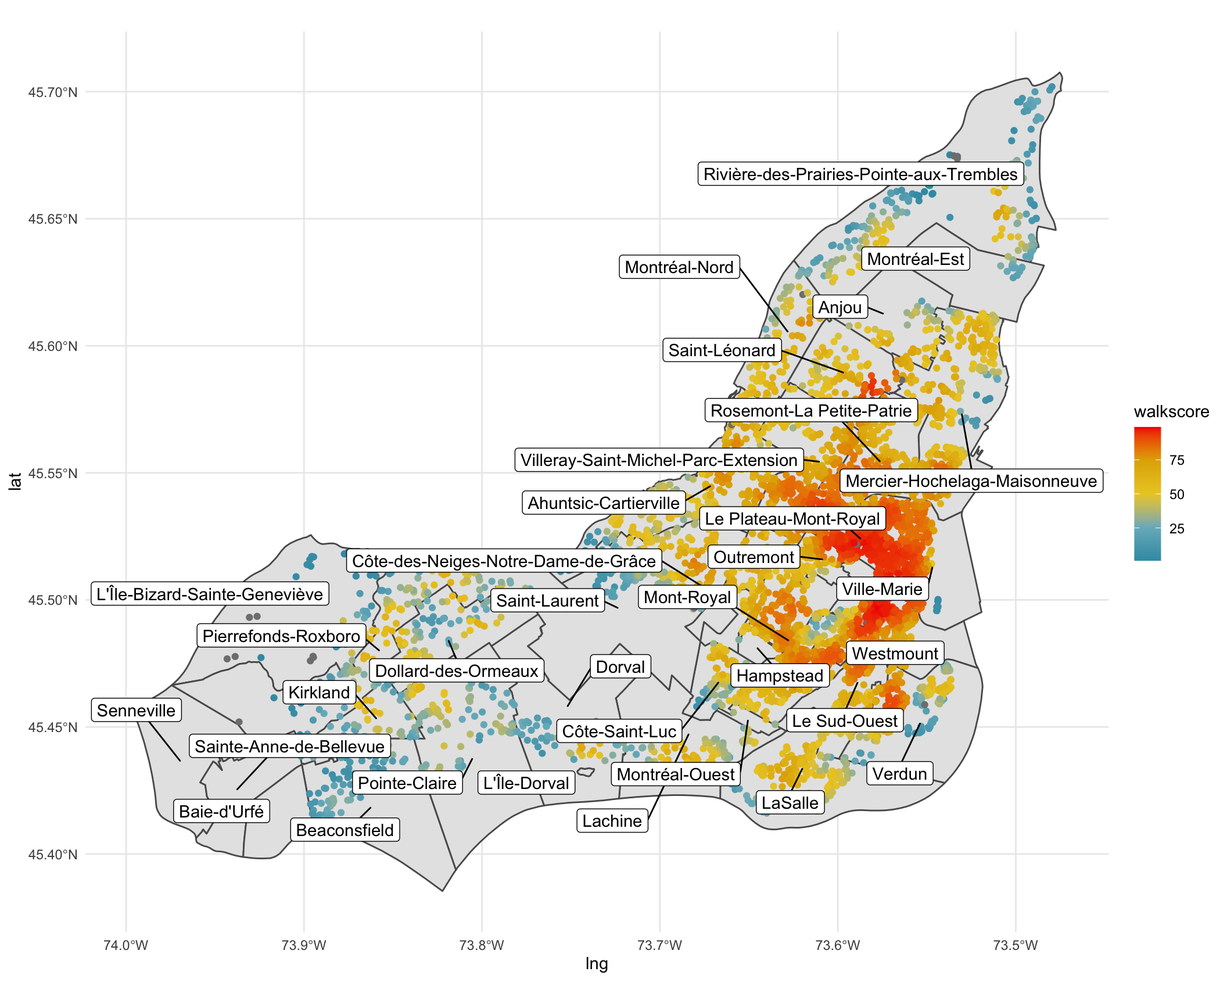
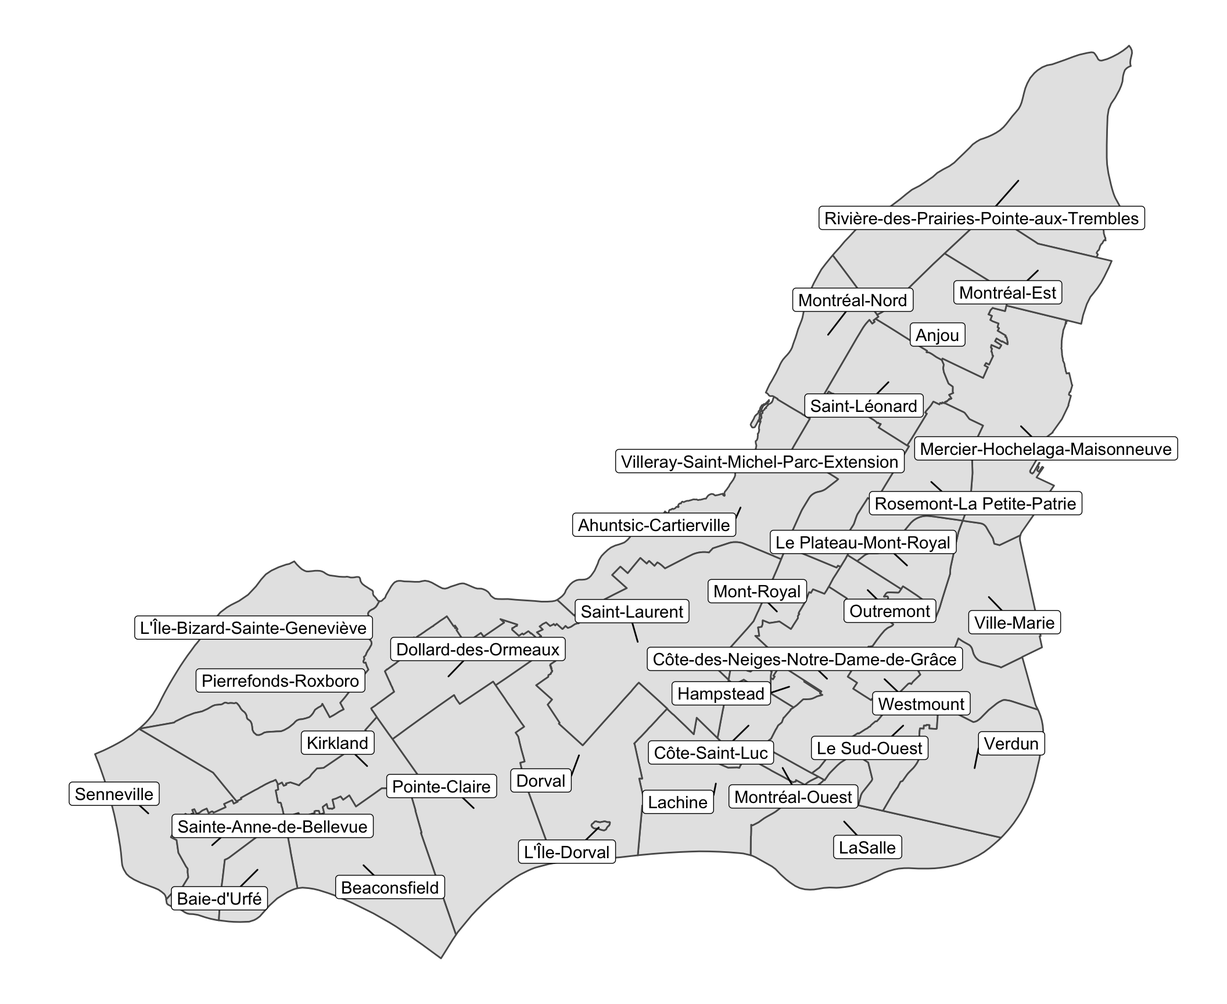
improve walkscore post

diff --git a/post/montreal-real-estate/real-estates-montreal-walkscore/index.html b/post/montreal-real-estate/real-estates-montreal-walkscore/index.html
@@ -16,7 +16,7 @@
     
   },
   "name":"Wavrzenczak",
-  "description":"A short description of the best places to walk in Montreal according to the walkscore.com. We find 11 neighbours with an average greater than 60, which means good places for those looking for mobility.",
+  "description":"An exploration of the best places to walk in Montreal according to the walkscore.com. We find 11 neighbourhoods with a walkscore average greater than 60, which means good places for those looking for mobility.",
   "url":"https:\/\/varvenza.com\/post\/montreal-real-estate\/real-estates-montreal-walkscore\/",
   "keywords":"[]"
 }
@@ -28,18 +28,18 @@
 <meta name="generator" content="Hugo 0.93.2 with theme Tranquilpeak 0.5.3-BETA">
 <meta name="author" content="Andryas Wavrzenczak">
 <meta name="keywords" content="">
-<meta name="description" content="A short description of the best places to walk in Montreal according to the walkscore.com. We find 11 neighbours with an average greater than 60, which means good places for those looking for mobility.">
+<meta name="description" content="An exploration of the best places to walk in Montreal according to the walkscore.com. We find 11 neighbourhoods with a walkscore average greater than 60, which means good places for those looking for mobility.">
 
 
-<meta property="og:description" content="A short description of the best places to walk in Montreal according to the walkscore.com. We find 11 neighbours with an average greater than 60, which means good places for those looking for mobility.">
+<meta property="og:description" content="An exploration of the best places to walk in Montreal according to the walkscore.com. We find 11 neighbourhoods with a walkscore average greater than 60, which means good places for those looking for mobility.">
 <meta property="og:type" content="article">
-<meta property="og:title" content="Walkscore in Montreal">
-<meta name="twitter:title" content="Walkscore in Montreal">
+<meta property="og:title" content="Let&#39;s take a walk in Montreal">
+<meta name="twitter:title" content="Let&#39;s take a walk in Montreal">
 <meta property="og:url" content="https://varvenza.com/post/montreal-real-estate/real-estates-montreal-walkscore/">
 <meta property="twitter:url" content="https://varvenza.com/post/montreal-real-estate/real-estates-montreal-walkscore/">
 <meta property="og:site_name" content="Wavrzenczak">
-<meta property="og:description" content="A short description of the best places to walk in Montreal according to the walkscore.com. We find 11 neighbours with an average greater than 60, which means good places for those looking for mobility.">
-<meta name="twitter:description" content="A short description of the best places to walk in Montreal according to the walkscore.com. We find 11 neighbours with an average greater than 60, which means good places for those looking for mobility.">
+<meta property="og:description" content="An exploration of the best places to walk in Montreal according to the walkscore.com. We find 11 neighbourhoods with a walkscore average greater than 60, which means good places for those looking for mobility.">
+<meta name="twitter:description" content="An exploration of the best places to walk in Montreal according to the walkscore.com. We find 11 neighbourhoods with a walkscore average greater than 60, which means good places for those looking for mobility.">
 <meta property="og:locale" content="en-us">
 
   
@@ -84,7 +84,7 @@
   <meta property="twitter:image" content="https://varvenza.com/post/montreal-real-estate/data/thumbnail.jpg">
 
 
-    <title>Walkscore in Montreal</title>
+    <title>Let&#39;s take a walk in Montreal</title>
 
     <link rel="icon" href="https://varvenza.com/favicon.png">
     
@@ -250,7 +250,7 @@ if (!doNotTrack) {
             <div class="post-header main-content-wrap text-left">
   
     <h1 class="post-title">
-      Walkscore in Montreal
+      Let&#39;s take a walk in Montreal
     </h1>
   
   
@@ -291,9 +291,9 @@ if (!doNotTrack) {
 <p>Greetings earthlings!</p>
 <p>Today I want to explore with you the best places to walk in Montreal (Island) according to
 <a href="https://www.walkscore.com/about.shtml">walkscore.com</a>. How are we going to do that? Through
-crawled data, approximately 10k properties from the <a href="https://centris.ca/en">centris.ca</a>,
+data from <a href="https://centris.ca/en">centris.ca</a>, I crawled approximately 10k properties,
 where we got the <code>walkscore</code> and some other information for future analysis.</p>
-<p>To start, let’s see what the walkscore.com says about its mission:</p>
+<p>To start, let’s see what the walkscore.com says about their mission:</p>
 <blockquote>
 <p>Our Mission
 Walk Score’s mission is to promote walkable neighbourhoods. Walkable
@@ -307,18 +307,24 @@ Our vision is for every property listing to read: Beds: 3 Baths: 2 Walk Score: 8
 We want to make it easy for people to evaluate walkability and transportation when choosing where to live.</p>
 </blockquote>
 <p>Basically, they try to provide a score that summarizes the accessibility of a place; with that in mind,
-areas, where we have bus stops, metros, taxis and space for movement will have the best scores. And places
-with few of those things will have a low score.</p>
+areas, where we have bus stops, metros and taxis stops will have the best scores. And places with few of
+those things will have a low score.</p>
 <div class="figure"><span style="display:block;" id="fig:unnamed-chunk-1"></span>
-<img src="https://varvenza.com/post/montreal-real-estate/walkscore_files/figure-html/unnamed-chunk-1-1.png" alt="All walkscore properties collected from centris" width="1056" />
+<img src="https://varvenza.com/post/montreal-real-estate/walkscore_files/figure-html/unnamed-chunk-1-1.png" alt="Montreal neighbourhood" width="1056" />
 <p class="caption">
-Figure 1: All walkscore properties collected from centris
+Figure 1: Montreal neighbourhood
+</p>
+</div>
+<div class="figure"><span style="display:block;" id="fig:unnamed-chunk-2"></span>
+<img src="https://varvenza.com/post/montreal-real-estate/walkscore_files/figure-html/unnamed-chunk-2-1.png" alt="All walkscore properties collected from centris" width="1056" />
+<p class="caption">
+Figure 2: All walkscore properties collected from centris
 </p>
 </div>
 <p>As we can see in the plot above, places where we have a colour tending to red will have a high score, and areas with
 the colour tending to blue will have a low score. We notice that South-West of Montreal has lower scores; I don’t know
-exactly why, but probably because there are many houses there, so it sounds more like a “family place,” where are less
-population density.</p>
+exactly why, but probably because there are many houses there, so it sounds more like a “family place,” where it has a
+lower population density.</p>
 <p>Now, imagine that you are new in the city and you don’t know anything and want to rent a condo here. You probably will
 try to find something downtown; it is where everything happens, right? But, downtown, in general, is more expensive than
 some furthest places, for that let’s try to find the best neighbourhoods according to the walkscore and find the cheapest
@@ -328,7 +334,7 @@ places to rent.</p>
 <p>Above we have a plot that we can interact with to see the average walkscore by neighbourhood, and
 below we have the boxplot of which neighbourhood to have an idea of how the walkscore is distributed
 by neighbourhood.</p>
-<p><img src="https://varvenza.com/post/montreal-real-estate/walkscore_files/figure-html/unnamed-chunk-3-1.png" width="1056" /></p>
+<p><img src="https://varvenza.com/post/montreal-real-estate/walkscore_files/figure-html/unnamed-chunk-4-1.png" width="1056" /></p>
 <p>The top neighbourdhoods are:</p>
 <ul>
 <li>Le Plateau-Mont-Royal</li>
@@ -348,6 +354,9 @@ and getting the top 10 cheapest places to rent for each of these neighbourhoods,
 that you can check.</p>
 <div style="border: 1px solid #ddd; padding: 0px; overflow-y: scroll; height:500px; overflow-x: scroll; width:100%; ">
 <table class="table table-striped table-hover" style="margin-left: auto; margin-right: auto;">
+<caption>
+<span id="tab:unnamed-chunk-6">Table 1: </span>Cheapest condo in the best walkscore neighbourhoods
+</caption>
 <thead>
 <tr>
 <th style="text-align:left;position: sticky; top:0; background-color: #FFFFFF;">
@@ -1578,6 +1587,9 @@ Westmount
 <p>And to end this short post about the walkscore a summarize by neighbourdhood.</p>
 <div style="border: 1px solid #ddd; padding: 0px; overflow-y: scroll; height:500px; overflow-x: scroll; width:100%; ">
 <table class="table table-striped table-hover" style="margin-left: auto; margin-right: auto;border-bottom: 0;">
+<caption>
+<span id="tab:unnamed-chunk-7">Table 2: </span>Walkscore summary
+</caption>
 <thead>
 <tr>
 <th style="text-align:left;position: sticky; top:0; background-color: #FFFFFF;">

diff --git a/categories/real-estates/index.html b/categories/real-estates/index.html
@@ -241,9 +241,9 @@ if (!doNotTrack) {
     <div class="postShorten-header">
       <h1 class="postShorten-title">
       
-        <a class="link-unstyled" href="https://varvenza.com/post/montreal-real-estate/real-estates-montreal-walkscore/" aria-label="Open the post: Walkscore in Montreal">
+        <a class="link-unstyled" href="https://varvenza.com/post/montreal-real-estate/real-estates-montreal-walkscore/" aria-label="Open the post: Let&#39;s take a walk in Montreal">
       
-          Walkscore in Montreal
+          Let&#39;s take a walk in Montreal
         </a>
       </h1>
       
@@ -269,18 +269,18 @@ if (!doNotTrack) {
     </div>
     <div class="postShorten-excerpt">
       
-        A short description of the best places to walk in Montreal according to the walkscore.com. We find 11 neighbours with an average greater than 60, which means good places for those looking for mobility.
+        An exploration of the best places to walk in Montreal according to the walkscore.com. We find 11 neighbourhoods with a walkscore average greater than 60, which means good places for those looking for mobility.
       
       <p>
         
-          <a href="https://varvenza.com/post/montreal-real-estate/real-estates-montreal-walkscore/" class="postShorten-excerpt_link link" aria-label="Open the post: Walkscore in Montreal">Continue reading</a>
+          <a href="https://varvenza.com/post/montreal-real-estate/real-estates-montreal-walkscore/" class="postShorten-excerpt_link link" aria-label="Open the post: Let&#39;s take a walk in Montreal">Continue reading</a>
         
         
       </p>
     </div>
   </div>
   
-    <a href="https://varvenza.com/post/montreal-real-estate/real-estates-montreal-walkscore/" aria-label="Open the post: Walkscore in Montreal">
+    <a href="https://varvenza.com/post/montreal-real-estate/real-estates-montreal-walkscore/" aria-label="Open the post: Let&#39;s take a walk in Montreal">
       <div class="postShorten-thumbnailimg">
         <img alt="" src="https://varvenza.com/post/montreal-real-estate/data/thumbnail.jpg"/>
       </div>

diff --git a/index.html b/index.html
@@ -238,9 +238,9 @@ if (!doNotTrack) {
     <div class="postShorten-header">
       <h1 class="postShorten-title">
       
-        <a class="link-unstyled" href="https://varvenza.com/post/montreal-real-estate/real-estates-montreal-walkscore/" aria-label="Open the post: Walkscore in Montreal">
+        <a class="link-unstyled" href="https://varvenza.com/post/montreal-real-estate/real-estates-montreal-walkscore/" aria-label="Open the post: Let&#39;s take a walk in Montreal">
       
-          Walkscore in Montreal
+          Let&#39;s take a walk in Montreal
         </a>
       </h1>
       
@@ -266,18 +266,18 @@ if (!doNotTrack) {
     </div>
     <div class="postShorten-excerpt">
       
-        A short description of the best places to walk in Montreal according to the walkscore.com. We find 11 neighbours with an average greater than 60, which means good places for those looking for mobility.
+        An exploration of the best places to walk in Montreal according to the walkscore.com. We find 11 neighbourhoods with a walkscore average greater than 60, which means good places for those looking for mobility.
       
       <p>
         
-          <a href="https://varvenza.com/post/montreal-real-estate/real-estates-montreal-walkscore/" class="postShorten-excerpt_link link" aria-label="Open the post: Walkscore in Montreal">Continue reading</a>
+          <a href="https://varvenza.com/post/montreal-real-estate/real-estates-montreal-walkscore/" class="postShorten-excerpt_link link" aria-label="Open the post: Let&#39;s take a walk in Montreal">Continue reading</a>
         
         
       </p>
     </div>
   </div>
   
-    <a href="https://varvenza.com/post/montreal-real-estate/real-estates-montreal-walkscore/" aria-label="Open the post: Walkscore in Montreal">
+    <a href="https://varvenza.com/post/montreal-real-estate/real-estates-montreal-walkscore/" aria-label="Open the post: Let&#39;s take a walk in Montreal">
       <div class="postShorten-thumbnailimg">
         <img alt="" src="https://varvenza.com/post/montreal-real-estate/data/thumbnail.jpg"/>
       </div>

diff --git a/post/index.html b/post/index.html
@@ -239,9 +239,9 @@ if (!doNotTrack) {
     <div class="postShorten-header">
       <h1 class="postShorten-title">
       
-        <a class="link-unstyled" href="https://varvenza.com/post/montreal-real-estate/real-estates-montreal-walkscore/" aria-label="Open the post: Walkscore in Montreal">
+        <a class="link-unstyled" href="https://varvenza.com/post/montreal-real-estate/real-estates-montreal-walkscore/" aria-label="Open the post: Let&#39;s take a walk in Montreal">
       
-          Walkscore in Montreal
+          Let&#39;s take a walk in Montreal
         </a>
       </h1>
       
@@ -267,18 +267,18 @@ if (!doNotTrack) {
     </div>
     <div class="postShorten-excerpt">
       
-        A short description of the best places to walk in Montreal according to the walkscore.com. We find 11 neighbours with an average greater than 60, which means good places for those looking for mobility.
+        An exploration of the best places to walk in Montreal according to the walkscore.com. We find 11 neighbourhoods with a walkscore average greater than 60, which means good places for those looking for mobility.
       
       <p>
         
-          <a href="https://varvenza.com/post/montreal-real-estate/real-estates-montreal-walkscore/" class="postShorten-excerpt_link link" aria-label="Open the post: Walkscore in Montreal">Continue reading</a>
+          <a href="https://varvenza.com/post/montreal-real-estate/real-estates-montreal-walkscore/" class="postShorten-excerpt_link link" aria-label="Open the post: Let&#39;s take a walk in Montreal">Continue reading</a>
         
         
       </p>
     </div>
   </div>
   
-    <a href="https://varvenza.com/post/montreal-real-estate/real-estates-montreal-walkscore/" aria-label="Open the post: Walkscore in Montreal">
+    <a href="https://varvenza.com/post/montreal-real-estate/real-estates-montreal-walkscore/" aria-label="Open the post: Let&#39;s take a walk in Montreal">
       <div class="postShorten-thumbnailimg">
         <img alt="" src="https://varvenza.com/post/montreal-real-estate/data/thumbnail.jpg"/>
       </div>

diff --git a/tags/montreal/index.html b/tags/montreal/index.html
@@ -241,9 +241,9 @@ if (!doNotTrack) {
     <div class="postShorten-header">
       <h1 class="postShorten-title">
       
-        <a class="link-unstyled" href="https://varvenza.com/post/montreal-real-estate/real-estates-montreal-walkscore/" aria-label="Open the post: Walkscore in Montreal">
+        <a class="link-unstyled" href="https://varvenza.com/post/montreal-real-estate/real-estates-montreal-walkscore/" aria-label="Open the post: Let&#39;s take a walk in Montreal">
       
-          Walkscore in Montreal
+          Let&#39;s take a walk in Montreal
         </a>
       </h1>
       
@@ -269,18 +269,18 @@ if (!doNotTrack) {
     </div>
     <div class="postShorten-excerpt">
       
-        A short description of the best places to walk in Montreal according to the walkscore.com. We find 11 neighbours with an average greater than 60, which means good places for those looking for mobility.
+        An exploration of the best places to walk in Montreal according to the walkscore.com. We find 11 neighbourhoods with a walkscore average greater than 60, which means good places for those looking for mobility.
       
       <p>
         
-          <a href="https://varvenza.com/post/montreal-real-estate/real-estates-montreal-walkscore/" class="postShorten-excerpt_link link" aria-label="Open the post: Walkscore in Montreal">Continue reading</a>
+          <a href="https://varvenza.com/post/montreal-real-estate/real-estates-montreal-walkscore/" class="postShorten-excerpt_link link" aria-label="Open the post: Let&#39;s take a walk in Montreal">Continue reading</a>
         
         
       </p>
     </div>
   </div>
   
-    <a href="https://varvenza.com/post/montreal-real-estate/real-estates-montreal-walkscore/" aria-label="Open the post: Walkscore in Montreal">
+    <a href="https://varvenza.com/post/montreal-real-estate/real-estates-montreal-walkscore/" aria-label="Open the post: Let&#39;s take a walk in Montreal">
       <div class="postShorten-thumbnailimg">
         <img alt="" src="https://varvenza.com/post/montreal-real-estate/data/thumbnail.jpg"/>
       </div>

diff --git a/tags/real-estates/index.html b/tags/real-estates/index.html
@@ -241,9 +241,9 @@ if (!doNotTrack) {
     <div class="postShorten-header">
       <h1 class="postShorten-title">
       
-        <a class="link-unstyled" href="https://varvenza.com/post/montreal-real-estate/real-estates-montreal-walkscore/" aria-label="Open the post: Walkscore in Montreal">
+        <a class="link-unstyled" href="https://varvenza.com/post/montreal-real-estate/real-estates-montreal-walkscore/" aria-label="Open the post: Let&#39;s take a walk in Montreal">
       
-          Walkscore in Montreal
+          Let&#39;s take a walk in Montreal
         </a>
       </h1>
       
@@ -269,18 +269,18 @@ if (!doNotTrack) {
     </div>
     <div class="postShorten-excerpt">
       
-        A short description of the best places to walk in Montreal according to the walkscore.com. We find 11 neighbours with an average greater than 60, which means good places for those looking for mobility.
+        An exploration of the best places to walk in Montreal according to the walkscore.com. We find 11 neighbourhoods with a walkscore average greater than 60, which means good places for those looking for mobility.
       
       <p>
         
-          <a href="https://varvenza.com/post/montreal-real-estate/real-estates-montreal-walkscore/" class="postShorten-excerpt_link link" aria-label="Open the post: Walkscore in Montreal">Continue reading</a>
+          <a href="https://varvenza.com/post/montreal-real-estate/real-estates-montreal-walkscore/" class="postShorten-excerpt_link link" aria-label="Open the post: Let&#39;s take a walk in Montreal">Continue reading</a>
         
         
       </p>
     </div>
   </div>
   
-    <a href="https://varvenza.com/post/montreal-real-estate/real-estates-montreal-walkscore/" aria-label="Open the post: Walkscore in Montreal">
+    <a href="https://varvenza.com/post/montreal-real-estate/real-estates-montreal-walkscore/" aria-label="Open the post: Let&#39;s take a walk in Montreal">
       <div class="postShorten-thumbnailimg">
         <img alt="" src="https://varvenza.com/post/montreal-real-estate/data/thumbnail.jpg"/>
       </div>

diff --git a/tags/walkscore/index.html b/tags/walkscore/index.html
@@ -241,9 +241,9 @@ if (!doNotTrack) {
     <div class="postShorten-header">
       <h1 class="postShorten-title">
       
-        <a class="link-unstyled" href="https://varvenza.com/post/montreal-real-estate/real-estates-montreal-walkscore/" aria-label="Open the post: Walkscore in Montreal">
+        <a class="link-unstyled" href="https://varvenza.com/post/montreal-real-estate/real-estates-montreal-walkscore/" aria-label="Open the post: Let&#39;s take a walk in Montreal">
       
-          Walkscore in Montreal
+          Let&#39;s take a walk in Montreal
         </a>
       </h1>
       
@@ -269,18 +269,18 @@ if (!doNotTrack) {
     </div>
     <div class="postShorten-excerpt">
       
-        A short description of the best places to walk in Montreal according to the walkscore.com. We find 11 neighbours with an average greater than 60, which means good places for those looking for mobility.
+        An exploration of the best places to walk in Montreal according to the walkscore.com. We find 11 neighbourhoods with a walkscore average greater than 60, which means good places for those looking for mobility.
       
       <p>
         
-          <a href="https://varvenza.com/post/montreal-real-estate/real-estates-montreal-walkscore/" class="postShorten-excerpt_link link" aria-label="Open the post: Walkscore in Montreal">Continue reading</a>
+          <a href="https://varvenza.com/post/montreal-real-estate/real-estates-montreal-walkscore/" class="postShorten-excerpt_link link" aria-label="Open the post: Let&#39;s take a walk in Montreal">Continue reading</a>
         
         
       </p>
     </div>
   </div>
   
-    <a href="https://varvenza.com/post/montreal-real-estate/real-estates-montreal-walkscore/" aria-label="Open the post: Walkscore in Montreal">
+    <a href="https://varvenza.com/post/montreal-real-estate/real-estates-montreal-walkscore/" aria-label="Open the post: Let&#39;s take a walk in Montreal">
       <div class="postShorten-thumbnailimg">
         <img alt="" src="https://varvenza.com/post/montreal-real-estate/data/thumbnail.jpg"/>
       </div>

diff --git a/post/async-programming-in-shiny-plus-spinners/index.html b/post/async-programming-in-shiny-plus-spinners/index.html
@@ -459,7 +459,7 @@ ng Tasks With Shiny: Challenges and Solutions</a></p>
       
         <li class="post-action">
           
-            <a class="post-action-btn btn btn--default tooltip--top" href="https://varvenza.com/post/montreal-real-estate/real-estates-montreal-walkscore/" data-tooltip="Walkscore in Montreal" aria-label="NEXT: Walkscore in Montreal">
+            <a class="post-action-btn btn btn--default tooltip--top" href="https://varvenza.com/post/montreal-real-estate/real-estates-montreal-walkscore/" data-tooltip="Let&#39;s take a walk in Montreal" aria-label="NEXT: Let&#39;s take a walk in Montreal">
           
               <i class="fa fa-angle-left"></i>
               <span class="hide-xs hide-sm text-small icon-ml">NEXT</span>
@@ -566,7 +566,7 @@ ng Tasks With Shiny: Challenges and Solutions</a></p>
       
         <li class="post-action">
           
-            <a class="post-action-btn btn btn--default tooltip--top" href="https://varvenza.com/post/montreal-real-estate/real-estates-montreal-walkscore/" data-tooltip="Walkscore in Montreal" aria-label="NEXT: Walkscore in Montreal">
+            <a class="post-action-btn btn btn--default tooltip--top" href="https://varvenza.com/post/montreal-real-estate/real-estates-montreal-walkscore/" data-tooltip="Let&#39;s take a walk in Montreal" aria-label="NEXT: Let&#39;s take a walk in Montreal">
           
               <i class="fa fa-angle-left"></i>
               <span class="hide-xs hide-sm text-small icon-ml">NEXT</span>

diff --git a/tags/index.html b/tags/index.html
@@ -290,7 +290,7 @@ if (!doNotTrack) {
                     
                       <li class="archive-post">
                         <a class="archive-post-title" href="https://varvenza.com/post/montreal-real-estate/real-estates-montreal-walkscore/">
-                          Walkscore in Montreal
+                          Let&#39;s take a walk in Montreal
                         </a>
                         <span class="archive-post-date"> - 
   May 17, 2022
@@ -310,7 +310,7 @@ if (!doNotTrack) {
                     
                       <li class="archive-post">
                         <a class="archive-post-title" href="https://varvenza.com/post/montreal-real-estate/real-estates-montreal-walkscore/">
-                          Walkscore in Montreal
+                          Let&#39;s take a walk in Montreal
                         </a>
                         <span class="archive-post-date"> - 
   May 17, 2022
@@ -370,7 +370,7 @@ if (!doNotTrack) {
                     
                       <li class="archive-post">
                         <a class="archive-post-title" href="https://varvenza.com/post/montreal-real-estate/real-estates-montreal-walkscore/">
-                          Walkscore in Montreal
+                          Let&#39;s take a walk in Montreal
                         </a>
                         <span class="archive-post-date"> - 
   May 17, 2022

diff --git a/categories/index.html b/categories/index.html
@@ -301,7 +301,7 @@ if (!doNotTrack) {
                   <ul class="archive-posts">
                     
                       <li class="archive-post">
-                        <a class="archive-post-title" href="https://varvenza.com/post/montreal-real-estate/real-estates-montreal-walkscore/">Walkscore in Montreal</a><span class="archive-post-date"> - 
+                        <a class="archive-post-title" href="https://varvenza.com/post/montreal-real-estate/real-estates-montreal-walkscore/">Let&#39;s take a walk in Montreal</a><span class="archive-post-date"> - 
   May 17, 2022
 </span>
                       </li>

diff --git a/archives/index.html b/archives/index.html
@@ -234,7 +234,7 @@ if (!doNotTrack) {
           <h5 class="archive-title" style="text-decoration: none;">May</h5>
           
             <li class="archive-post archive-day" data-date="20220517">
-              <a class="archive-post-title" href="https://varvenza.com/post/montreal-real-estate/real-estates-montreal-walkscore/">Walkscore in Montreal</a>
+              <a class="archive-post-title" href="https://varvenza.com/post/montreal-real-estate/real-estates-montreal-walkscore/">Let&#39;s take a walk in Montreal</a>
             </li>
           
         </ul>
